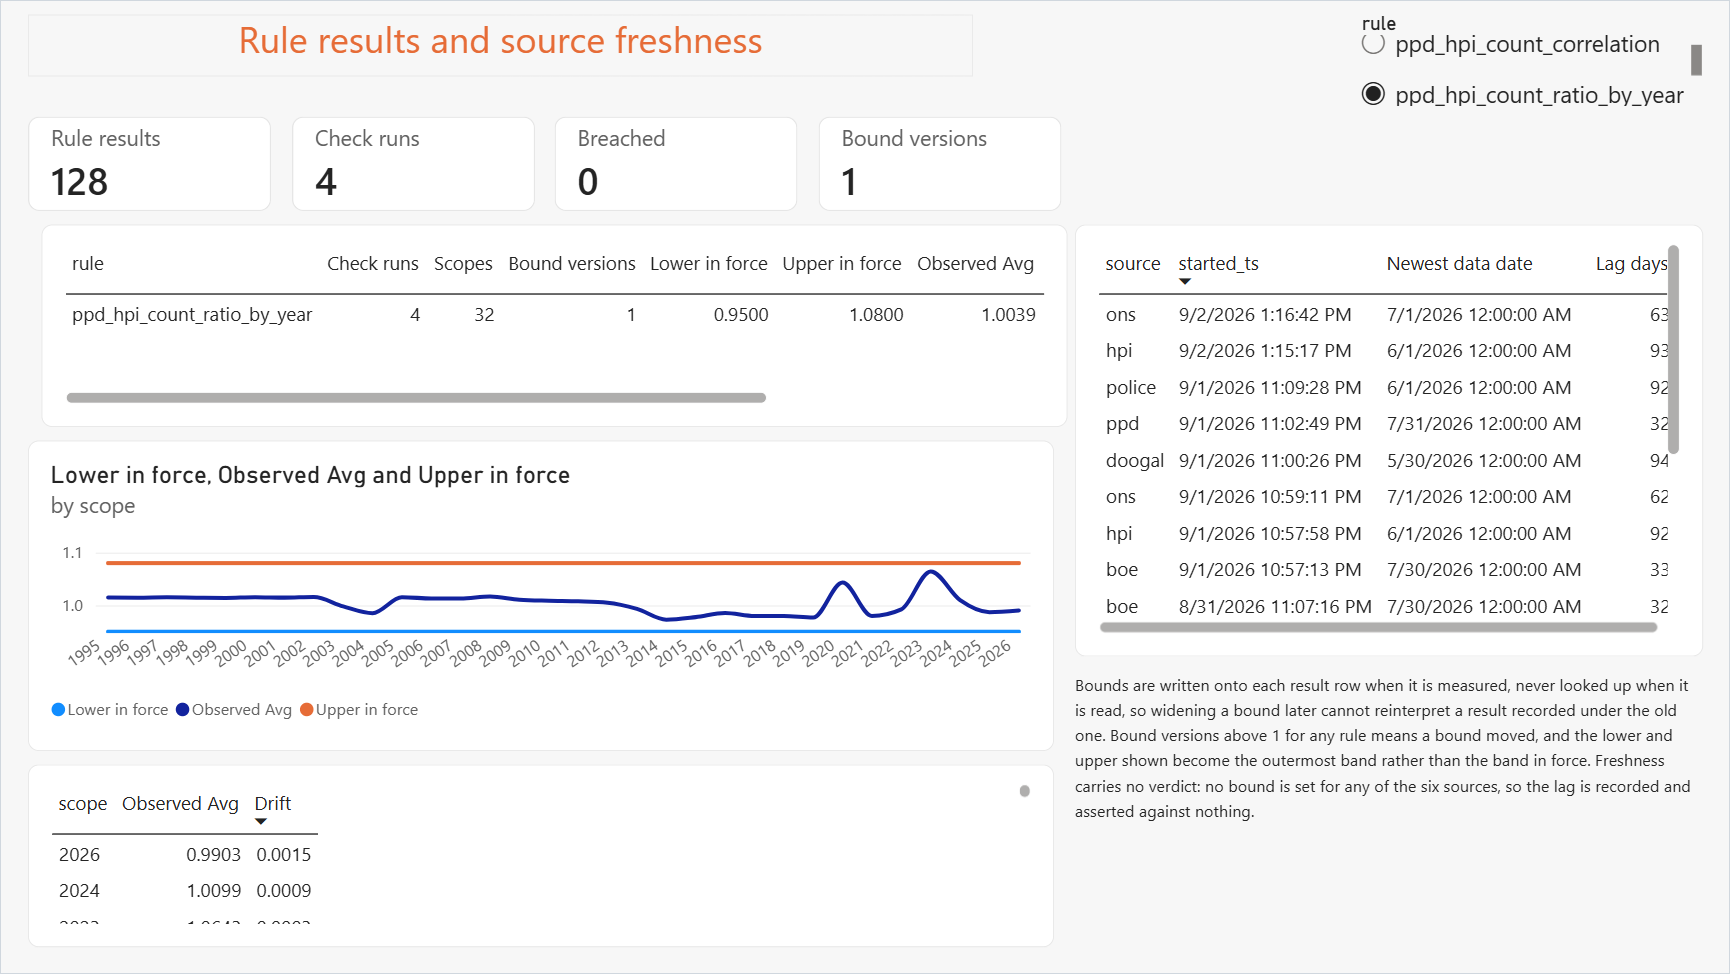
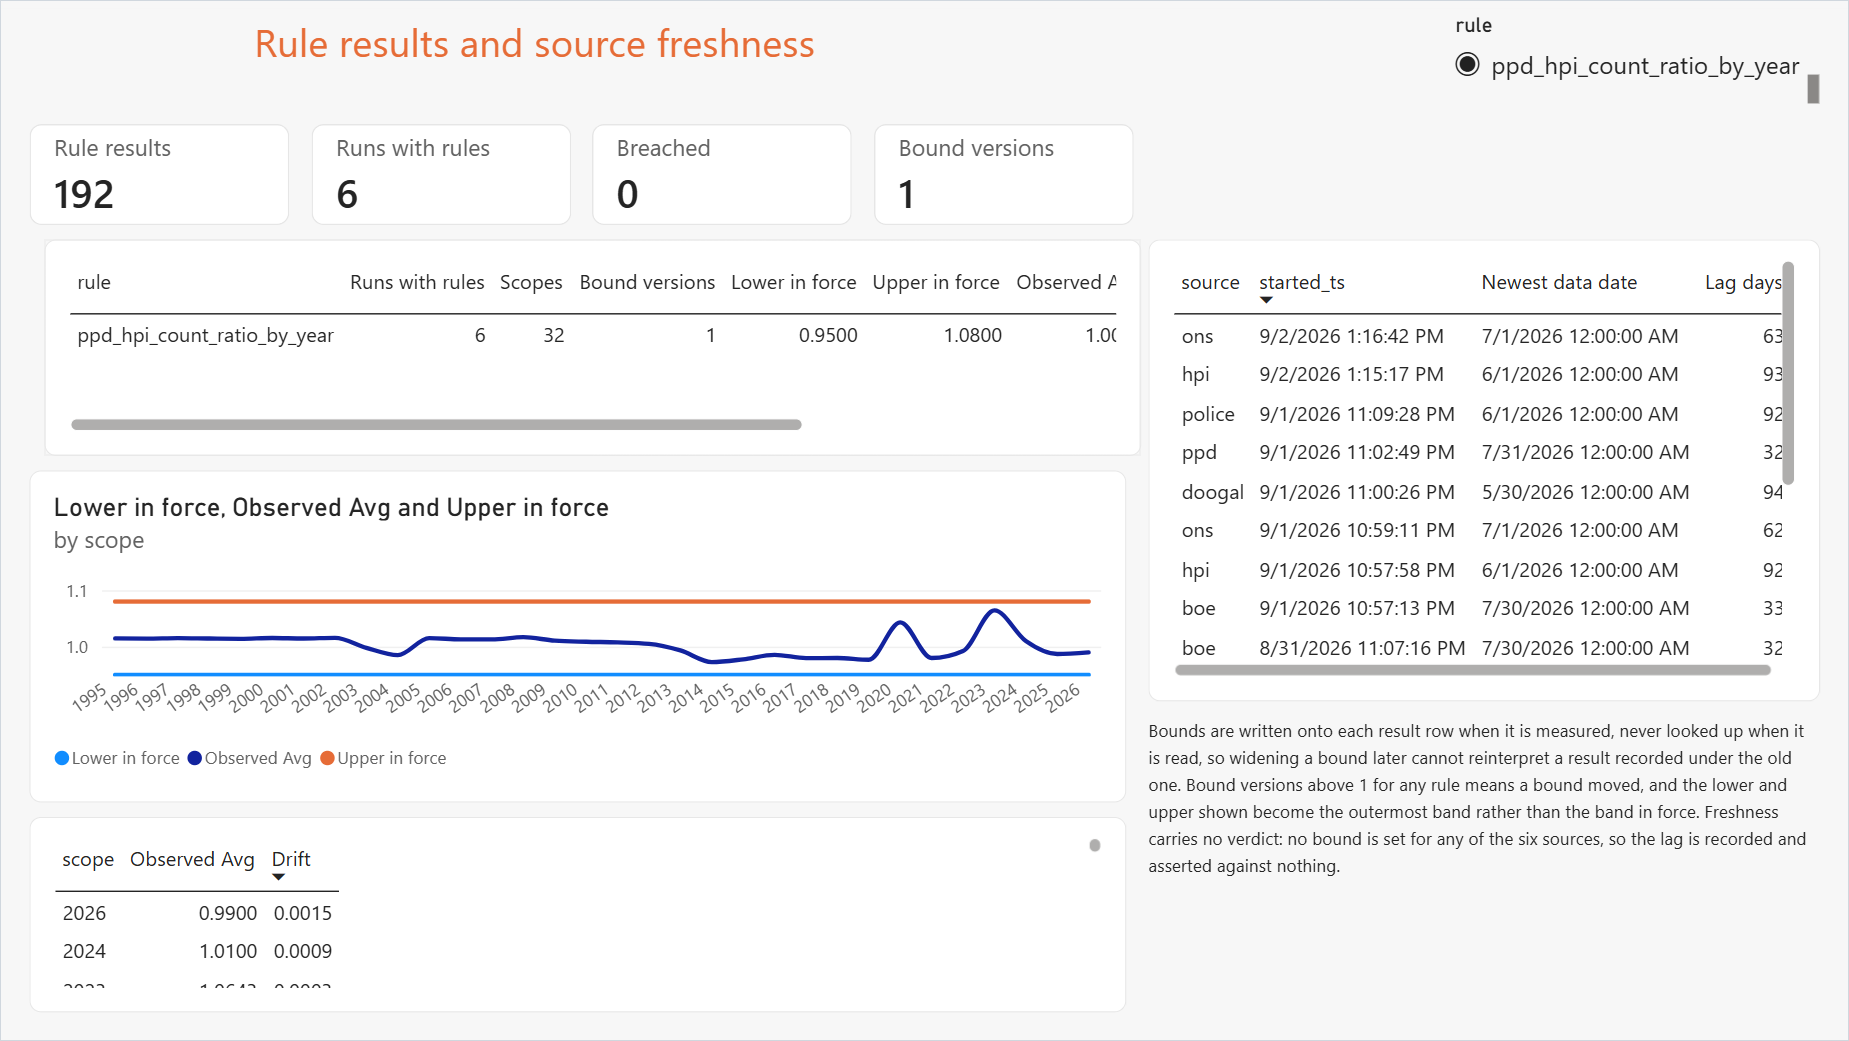
Add the dbt README, recapture the rules page, and keep every layer but Bronze on the run timeline (#37)

diff --git a/dbt/README.md b/dbt/README.md
@@ -1,0 +1,91 @@
+# dbt marts
+
+Three views over the Gold star, each holding one grain, for anyone querying the warehouse in SQL. They live in `uk_property_intel.marts`. The monthly job builds and tests them after every Gold rebuild, and continuous integration builds the same views into `marts_ci`.
+
+| Mart | One row per | Holds |
+|---|---|---|
+| `mart_district_month_market` | district and month | the published index and average price, private rent, the transaction median and recorded crime, each null outside its own coverage |
+| `mart_district_yield` | district and month | gross rental yield, twelve months of rent over the published average price, where both are published |
+| `mart_lsoa_year_crime_price` | small area and year | annual recorded crime beside the annual transaction median, for complete years and for codes the 2021 boundary revision left unchanged |
+
+Every column is declared in `models/marts/_marts.yml` under an enforced contract, so a renamed column or a changed type fails the build before a reader sees it. The reasoning behind each part is in [`docs/DESIGN.md`](../docs/DESIGN.md), Decisions 102 to 109.
+
+## Why the layer exists
+
+`gold.dim_area` holds six area levels in one table, and the levels contain each other: a crime in England sits in its district, its region, England, and the England and Wales composite. A sum written straight against Gold without a level filter counts each crime about four times, and nothing in the warehouse warns. The semantic model refuses that sum with a guard measure, but a SQL query never meets the guard. A mart holds one grain, so the same sum cannot be written against it.
+
+[`examples/`](examples/) measures what each mart refuses. Each file asks one question twice: once against Gold, the way a reader new to the model would write it, and once against the mart. Measured 28-10-2026:
+
+| File | Against Gold | Against the mart |
+|---|---|---|
+| `01_sum_across_area_levels.sql` | 19,225,323 crimes in 2024, every level summed | 4,869,305 |
+| `02_annual_price_joined_to_monthly_crime.sql` | 8,037,250 sales in unchanged small areas in 2024, each counted once per month of crime | 709,975 |
+| `03_small_areas_redrawn_in_2021.sql` | 2,023 small areas with sales and no crime in 2019 | 4 |
+| `04_year_in_progress.sql` | crime down 51.1% in 2026, on six months of data | down 2.0% in 2025 |
+
+## Why it sits beside the semantic model
+
+Power BI goes on reading the star directly, and no report reads a mart. The semantic model was built and verified on the star before the marts existed, and marts made the only route to the data would tie every later consumer to questions shaped for three views. dbt also stays out of Silver, whose work is reading files a SELECT cannot reach, and out of Gold, whose transaction join runs once on a persisted frame where one model per table would run it three times.
+
+## Who reads it
+
+Anyone querying the warehouse in SQL, from the SQL editor or a notebook. No group holds a grant on `marts` yet. `bi_readers`, the group Power BI reads as, is left out on purpose: nothing reads the marts through Power BI, and a grant nothing uses is a permission with no purpose.
+
+## Tests
+
+24 run with every build, 18 generic and 6 singular. None compares against a stored figure. Each sets two routes to the same number against each other, or reads a verdict the pipeline recorded.
+
+The generic tests, six per mart, hold the grain and the keys: one row per grain key, keys never null, and every key resolving in its dimension. District keys must be districts in `dim_area`, small-area keys must be codes `dim_lsoa` marks as unchanged in 2021, and months and years must be in `dim_date`. The market mart also refuses a row carrying no measure, the yield mart a null yield, and the small-area mart a null crime count.
+
+| Singular test | Fails when |
+|---|---|
+| `assert_district_crime_equals_small_area_crime` | crime summed over the market mart's districts differs from crime summed over the small-area fact, which a slipped level filter or a fanned-out join would cause |
+| `assert_lsoa_year_crime_conserved` | the small-area mart's annual crime differs from the monthly fact summed over the same small areas and years |
+| `assert_yield_districts_match_dim_area_flags` | a district has a yield and `dim_area` does not flag it with both a price index and a rent, or the reverse; the failure names each district |
+| `assert_latest_cross_source_verification_passed` | the latest cross-source verification recorded a breached rule, did not succeed, or recorded no verdict at all; the verdict is read from `quality.rule_result` and `quality.pipeline_run`, never recomputed |
+| `assert_marts_schema_holds_views_only` | anything other than a view appears in the schema, which has no managed location, so a table would be written to the catalog's own location |
+| `assert_rent_and_index_end_within_two_months` | a warning only: the rent and index panels end more than two months apart, which means a release is missing, and the yield mart stops at the older of the two |
+
+The price series in the marts rest on the reconciliation between the transaction series and the published index, which is why its verdict is a test. The crime series rest on the total holding across the published category changes, and the crime load checks that before it writes any crime table, so a crime fact in Gold has already passed it.
+
+No source freshness is configured. dbt reports freshness only against a threshold, and the platform's freshness bounds stay unset until observed runs set them.
+
+## How it runs
+
+**The monthly job.** `marts_build` is a dbt task running `dbt deps` and `dbt build` on the serverless SQL warehouse, with dbt-core 1.12.5 and dbt-databricks 1.12.6, the pair `requirements.txt` pins. It follows the cross-source check and runs whatever that check concluded, since the verdict is one of its tests. `record_marts_build` follows it and writes the build into `quality.pipeline_run`, taking the verdict from the task's result and the views built and tests passed from `run_results.json`. It raises after recording a failed build, because it is the job's last task and a job run takes its outcome from that task.
+
+**Continuous integration.** Two jobs in `.github/workflows/tests.yml`, on every push to `main` and every pull request that changes more than documentation. `dbt-parse` parses the project with warnings as errors and no warehouse behind it, and keeps the generated docs site for 30 days. `dbt-build` builds and tests the views in `marts_ci` as the `dbt-ci` service principal. It holds no stored secret: GitHub signs a token naming this repository and its `databricks-ci` environment, and Databricks exchanges it for a short-lived one. Pull requests from forks and from Dependabot skip that job.
+
+**By hand.** `databricks_src/setup/run_job_tasks.py` runs `marts_build` and `record_marts_build` from the deployed job and nothing upstream of them, so they read whatever the last run left in Gold.
+
+The repository holds one profile, `ci/profiles.yml`, and only a GitHub Actions run in the `databricks-ci` environment can obtain the token it authenticates with. The monthly job runs on a profile Databricks generates for the task.
+
+## Schemas
+
+`marts` and `marts_ci` are created by `databricks_src/setup/01_create_schemas.py` and carry no managed location, since a view stores nothing. dbt never creates a schema: `macros/create_schema.sql` replaces the adapter's `CREATE SCHEMA IF NOT EXISTS` with an error naming that notebook. What the CI build may read and create is granted by `databricks_src/setup/06_grant_ci_access.py`.
+
+## A gap the small-area mart cannot see
+
+`mart_lsoa_year_crime_price` keeps a year once the crime table holds all twelve of its months, judged across the whole police.uk release. One force missing does not make a release short. Greater Manchester Police has published a single month since June 2019, so 1,278 of its small areas with sales in 2024 read as recording no crime that year, and the force's crime is missing or short in every complete year from 2019. Three Devon districts have crime rows in only ten or eleven months of 2022, and the mart keeps that year for them as well. Telling a quiet small area from an unpublished one needs Gold to record which force published which month, and that work is open.
+
+## When a report should read a mart
+
+When a screen needs a fixed grain the star serves badly: an operational table, or a one-page summary that is never sliced. A visual reading a mart can drop the DAX level guard, because the mart already holds one grain. Until a screen like that exists, Power BI reads the star.
+
+## Layout
+
+```
+dbt/
+├── dbt_project.yml          # views only, contracts enforced, persist_docs on
+├── packages.yml             # dbt_utils 1.4.1
+├── requirements.txt         # dbt-core 1.12.5 and dbt-databricks 1.12.6, the pair the job installs
+├── ci/
+│   └── profiles.yml         # the CI profile: OIDC federation into marts_ci, no credential
+├── models/
+│   ├── _sources.yml         # the Gold and quality tables read
+│   └── marts/               # the three views, and _marts.yml with their contracts and generic tests
+├── macros/
+│   └── create_schema.sql    # refuses to create a schema
+├── tests/                   # the six singular tests
+└── examples/                # four query pairs, Gold against the mart, results measured 28-10-2026
+```

diff --git a/README.md b/README.md
@@ -702,9 +702,9 @@ and 0.0525, read off the same series in the same calendar month across fifteen y
 moves are 0.0599 and 0.1591. It is the first rule in the registry to use the `distribution` kind,
 which had been declared since the framework was built and never used. Since October 2026 it runs inside the crime load, before any of the four crime tables is written, so a step stops that load with every table holding what it held before. Evaluated in the cross-source check, after the writes, it would have reported a stepped total already in front of the dashboard and the marts. The cross-source check writes 65 results again.
 
-![Pipeline health dashboard, rules and freshness page, filtered to ppd_hpi_count_ratio_by_year: 128 results over 4 check runs, none breached](docs/screenshots/pipeline_health_rules_freshness.png)
+![Pipeline health dashboard, rules and freshness page, filtered to ppd_hpi_count_ratio_by_year: 192 results over 6 check runs, none breached](docs/screenshots/pipeline_health_rules_freshness.png)
 
-*`ppd_hpi_count_ratio_by_year` on the rules page: 32 transfer years over four check runs, and none of the 128 results outside 0.95 to 1.08. The freshness table beside it has no verdict column, because no source has a bound set yet.*
+*`ppd_hpi_count_ratio_by_year` on the rules page: 32 transfer years over six check runs, and none of the 192 results outside 0.95 to 1.08. The freshness table beside it has no verdict column, because no source has a bound set yet.*
 
 ### 44. The gate value is when a publisher released, not what the data is about
 
@@ -948,6 +948,10 @@ England and Wales count steps 0.0318 in September 2011 and 0.0525 in May 2013, a
 35.7th same-month percentiles, against worst same-month moves of 0.0599 and 0.1591. A split moves
 offences between labels and leaves the total alone, which the project had asserted from a row-count
 subtraction since Phase 3 and had never measured as a rate. A fourth reconciliation rule now records it; see Decision 43.
+
+![Pipeline health dashboard, rules and freshness page, filtered to crime_total_step_at_vocabulary_change: 4 results over 2 runs, 0.0318 and 0.0525 against a 0.10 ceiling, none breached](docs/screenshots/pipeline_health_rules_freshness_crime_step.png)
+
+*`crime_total_step_at_vocabulary_change` on the rules page: one result per category change, 0.0318 at 2011-09 and 0.0525 at 2013-05 against a ceiling of 0.10. Two runs wrote it, the cross-source check on 09-10-2026 and the crime load after the rule moved there, and the drift column reads zero because the second reproduced the first.*
 
 One cost is worth stating because it is a trap. `reporting_crime_type` is a label, and three of the
 sixteen rows report under the invented name, which no row carries as its own type. Joining that
@@ -1401,6 +1405,7 @@ uk-property-intelligence-platform/
 │   └── test_quality_rules/
 │       └── test_evaluator.py           # registry, refused values, DDL, verdict constraint
 ├── dbt/                                 # marts over the Gold star, views only, built by the job's marts_build task
+│   ├── README.md                        # what the marts are, who reads them, what each test asserts
 │   ├── dbt_project.yml
 │   ├── ci/
 │   │   └── profiles.yml                 # the CI profile: OIDC federation, no credential, builds into marts_ci
@@ -1428,6 +1433,7 @@ uk-property-intelligence-platform/
         ├── master_orchestrator.png
         ├── pipeline_health_metric_coverage.png
         ├── pipeline_health_rules_freshness.png
+        ├── pipeline_health_rules_freshness_crime_step.png
         ├── pipeline_health_run_detail_drill.png
         └── pipeline_health_run_detail_monthly.png
 ```
@@ -1562,4 +1568,4 @@ Both items below are built as mechanism and unset as configuration, so neither i
 Nothing is lost by the wait. Both series have been recorded since the layers that produce them were built, so either bound can be computed retrospectively over everything accumulated by the time it is set.
 ---
 
-*Status: Phases 1 to 4 complete and verified on the cluster. Phase 5 is in progress, three of six sub-phases closed: the serving layer is settled, the pipeline health dashboard is live over the quality tables, and the semantic model over the Gold star is built and held in version control as text. Three dbt views over the star now serve direct SQL readers, built and tested in the monthly job and in continuous integration without a stored credential. The property market dashboard is next, and its pipeline work ran first: the crime dimension computes which series survive a taxonomy change, a fourth quality rule records whether the total holds across one, and three defects that each hid behind something that looked correct were fixed alongside. Last updated 28-10-2026.*
+*Status: Phases 1 to 4 complete and verified on the cluster. Phase 5 is in progress, three of six sub-phases closed: the serving layer is settled, the pipeline health dashboard is live over the quality tables, and the semantic model over the Gold star is built and held in version control as text. Three dbt views over the star now serve direct SQL readers, built and tested in the monthly job and in continuous integration without a stored credential. The property market dashboard is next, and its pipeline work ran first: the crime dimension computes which series survive a taxonomy change, a fourth quality rule records whether the total holds across one, and three defects that each hid behind something that looked correct were fixed alongside. Last updated 30-10-2026.*
